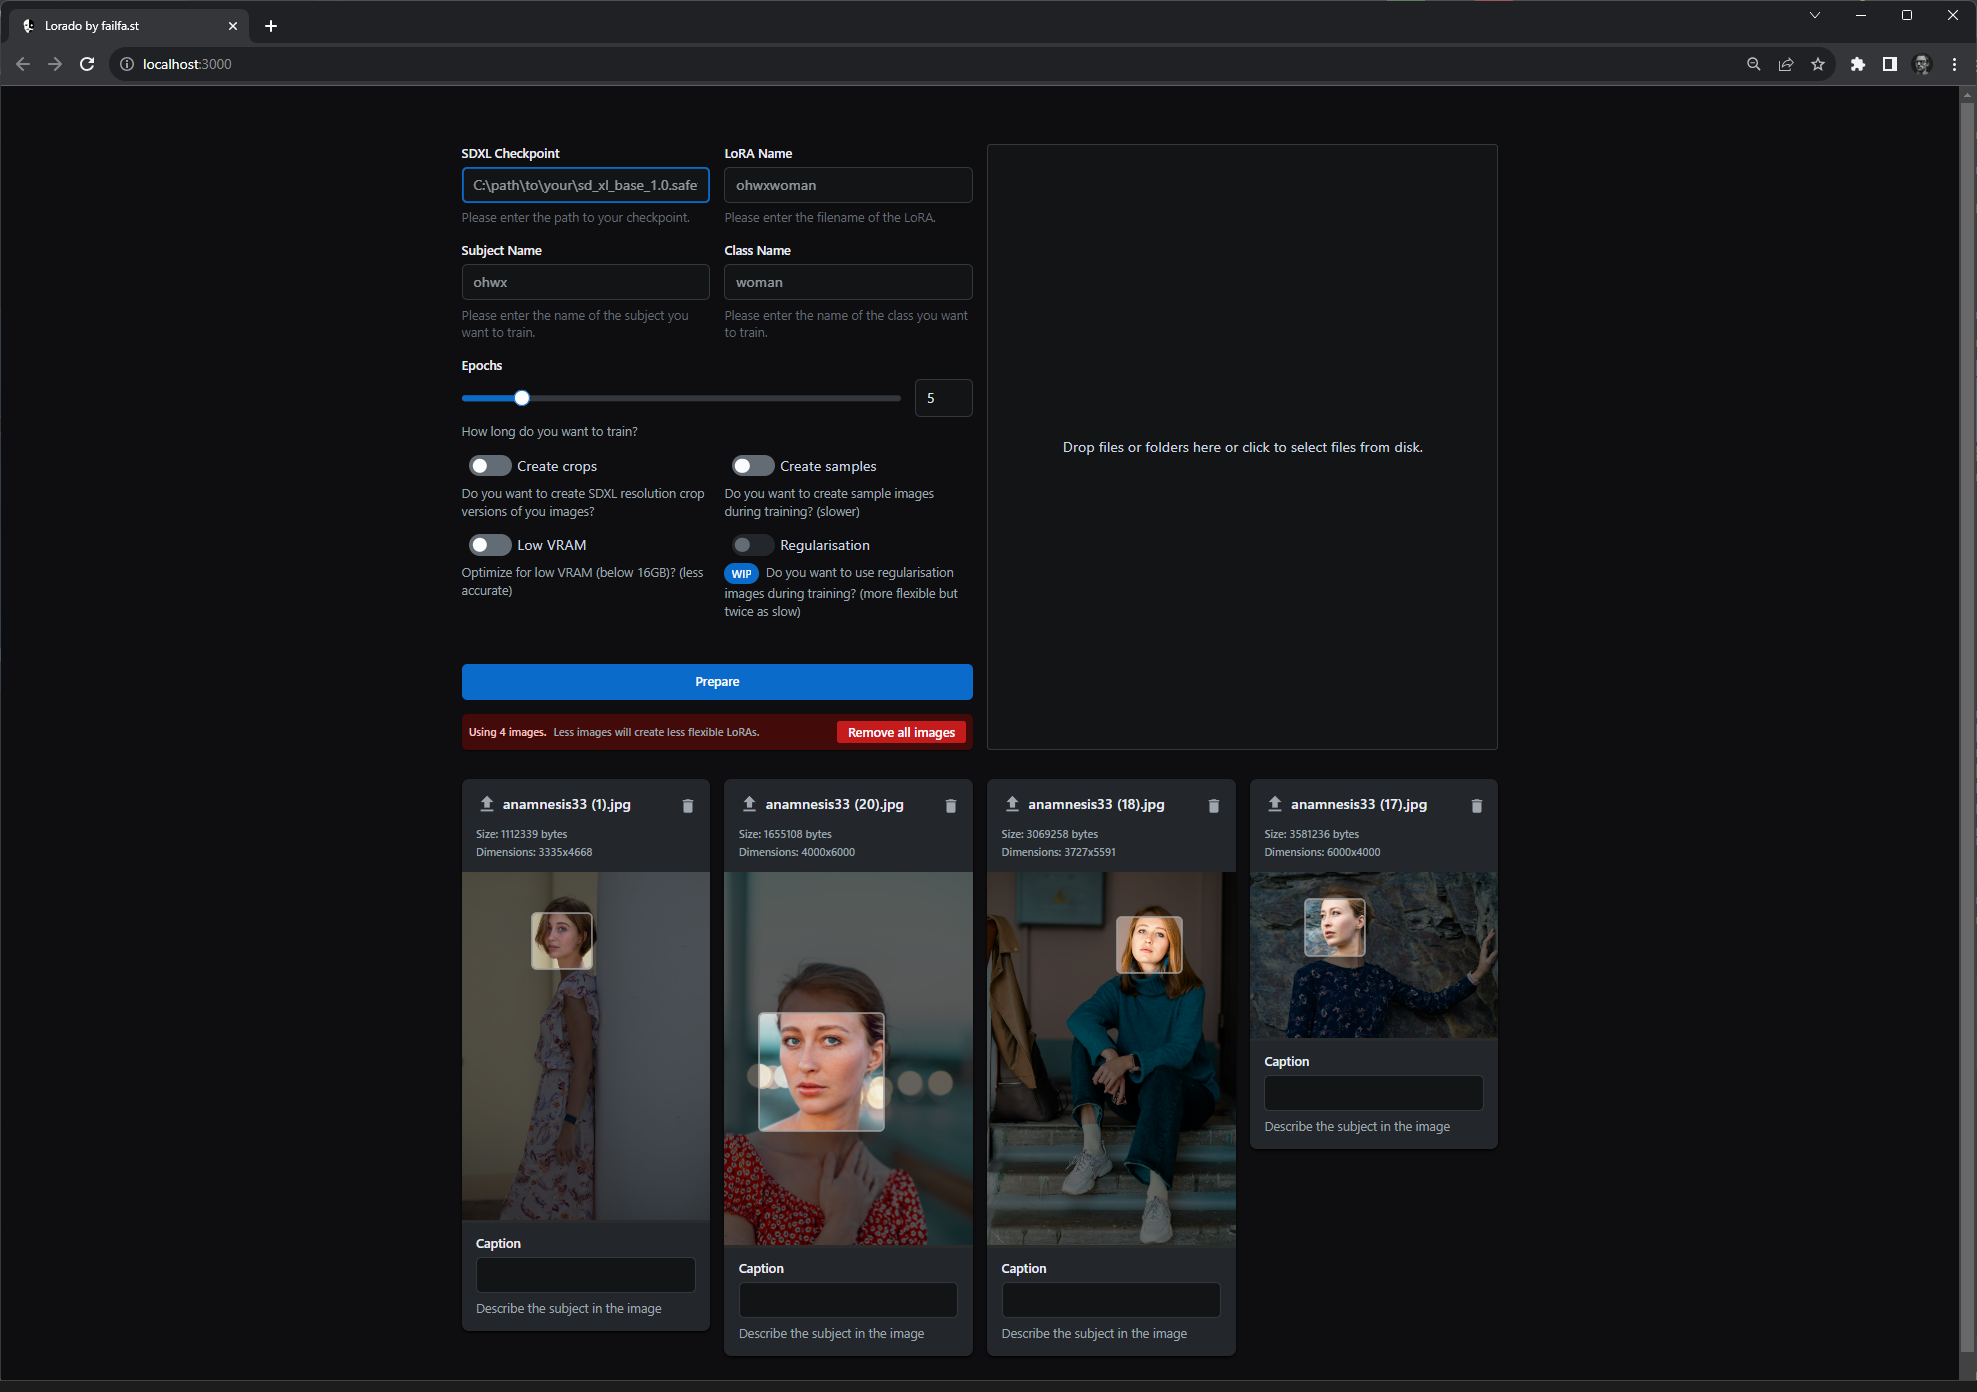
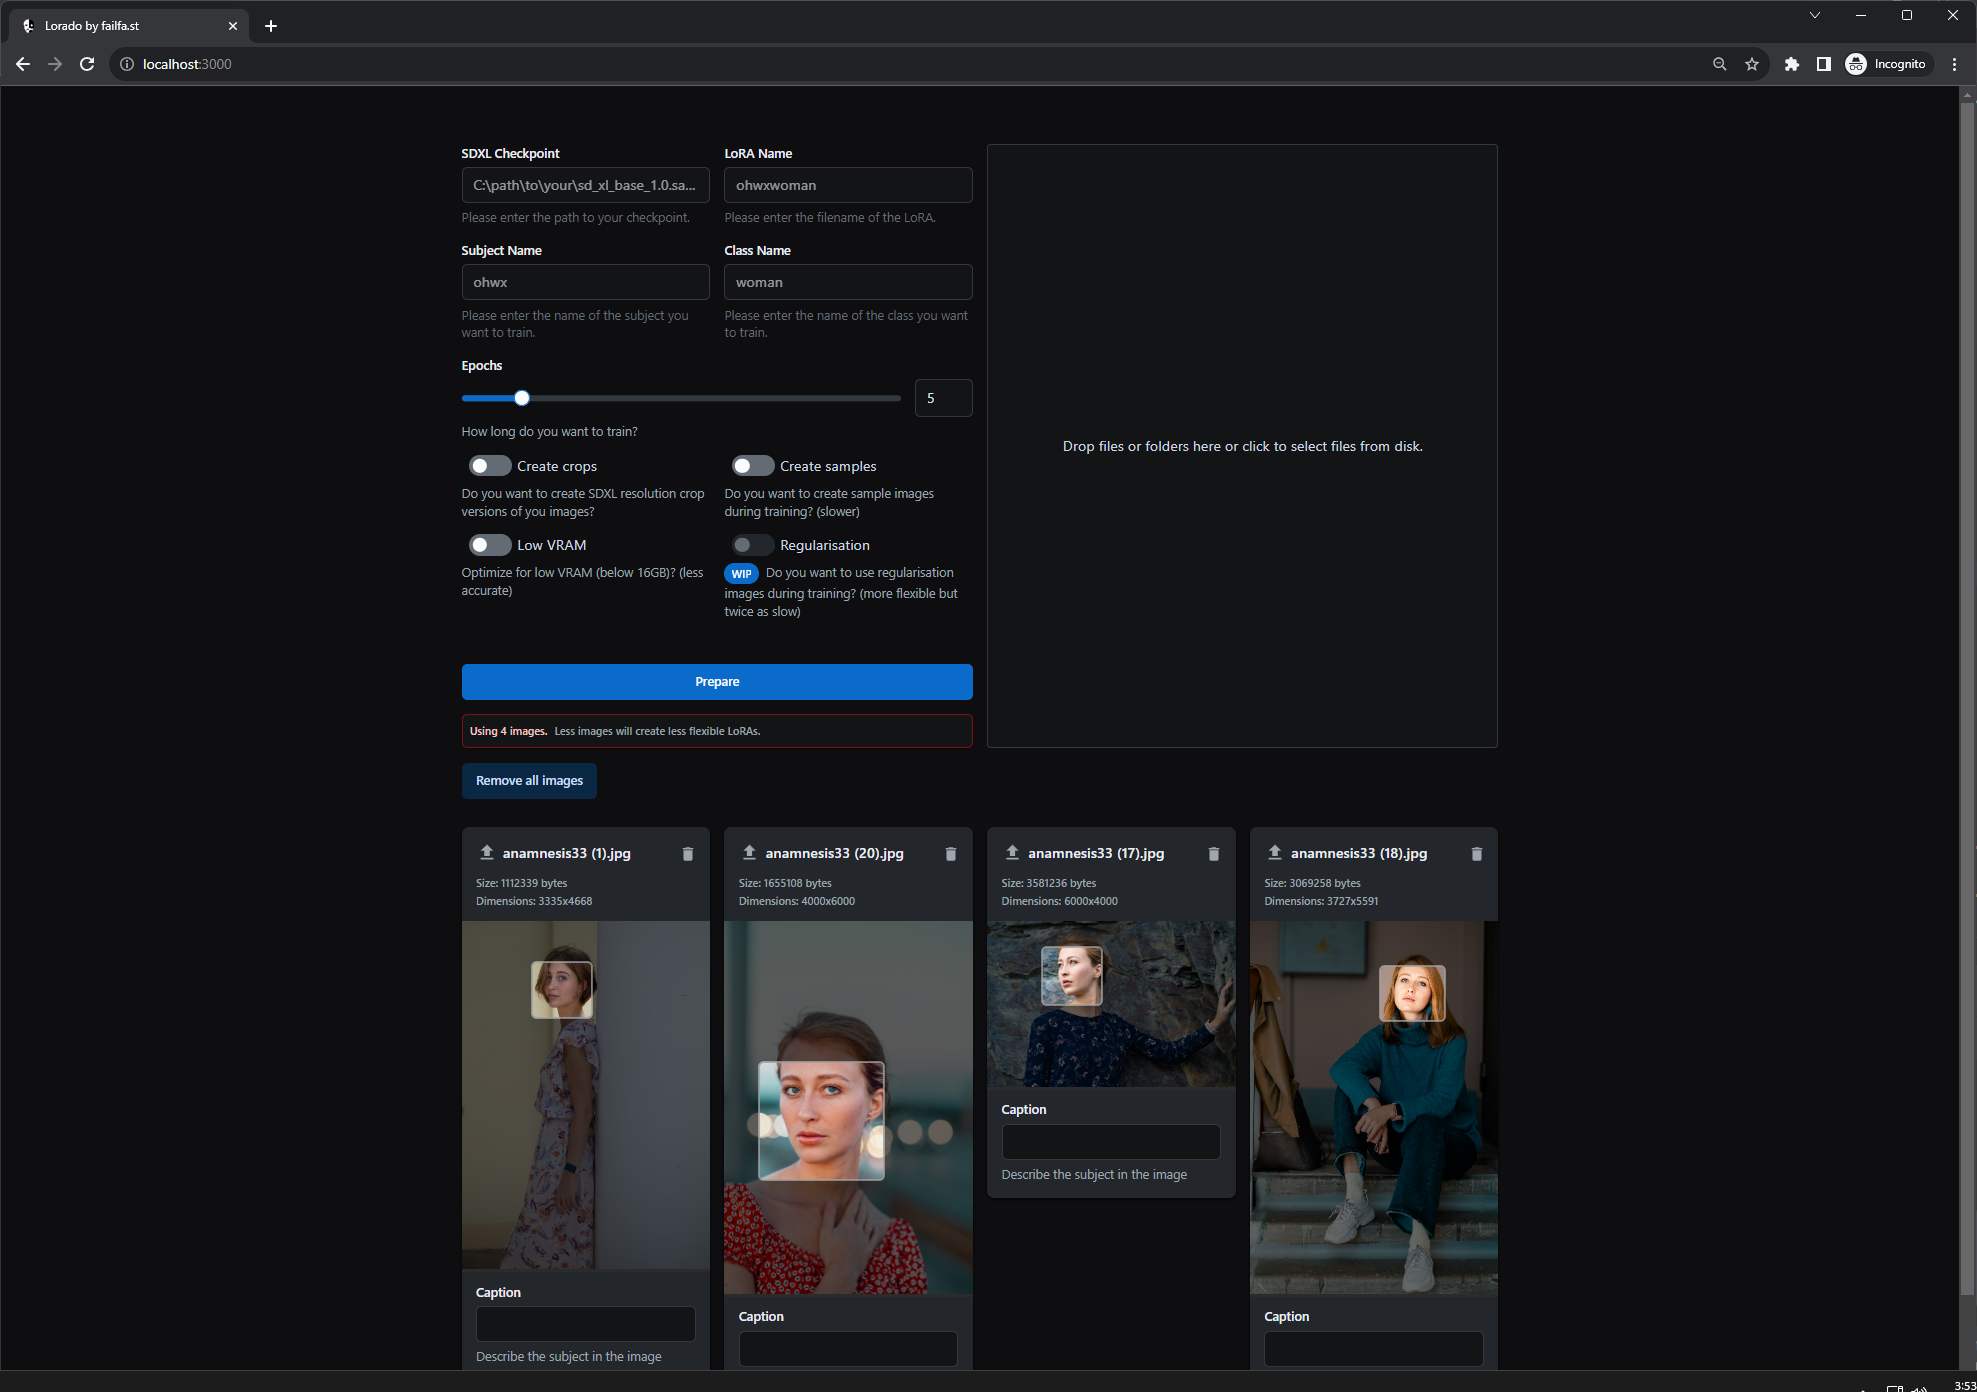
feat: calculate repeats

diff --git a/src/pages/index.tsx b/src/pages/index.tsx
@@ -142,6 +142,11 @@ export default function Home() {
         formData,
       );
 
+      const repeats = Math.min(
+        Math.max(Math.ceil(150 / (images.length * (data.crop ? 9 : 1))), 5),
+        50,
+      );
+
       const imagePromises = images.map(async (image, index) => {
         const counter = index + 1;
         const imageData = new FormData();
@@ -172,6 +177,7 @@ export default function Home() {
         imageData.append("className", data.className);
         imageData.append("crop", data.crop.toString());
         imageData.append("counter", counter.toString());
+        imageData.append("repeats", repeats.toString());
 
         // Now sending each image separately to a different endpoint
         const imageResponse = await axios.post("/api/upload-image", imageData);
@@ -402,8 +408,13 @@ export default function Home() {
                   </div>
                 </Alert>
               )}
+              {error && (
+                <Alert variant="soft" color="danger">
+                  {error.message}
+                </Alert>
+              )}
               <Alert
-                variant="soft"
+                variant="outlined"
                 color={
                   images.length >= preferredLength
                     ? "success"
@@ -412,25 +423,6 @@ export default function Home() {
                     : "danger"
                 }
                 size="sm"
-                endDecorator={
-                  <Button
-                    size="sm"
-                    variant="solid"
-                    disabled={images.length === 0}
-                    color={
-                      images.length >= preferredLength
-                        ? "success"
-                        : images.length >= secondaryLength
-                        ? "warning"
-                        : "danger"
-                    }
-                    onClick={() => {
-                      setImages([]);
-                    }}
-                  >
-                    Remove all images
-                  </Button>
-                }
               >
                 Using {images.length} image{images.length === 1 ? "" : "s"}.
                 {images.length < secondaryLength && images.length > 0 && (
@@ -462,6 +454,17 @@ export default function Home() {
           </Grid>
         </Grid>
       </Box>
+      <Box>
+        <Button
+          variant="soft"
+          disabled={images.length === 0}
+          onClick={() => {
+            setImages([]);
+          }}
+        >
+          Remove all images
+        </Button>
+      </Box>
       <Masonry columns={4}>
         {images.map((image, index) => (
           <ImageItem
@@ -482,7 +485,7 @@ export default function Home() {
           />
         ))}
         {images.length === 0 &&
-          exampleImages.map((image, index) => (
+          exampleImages.map((image) => (
             <ImageItem
               key={image.id}
               demo

diff --git a/src/pages/api/upload-image.ts b/src/pages/api/upload-image.ts
@@ -33,8 +33,8 @@ export default async function uploadImageHandler(
         const [caption] = fields.caption;
         const crop = fields.crop[0] === "true";
         const counter = Number.parseInt(fields.counter[0], 10);
+        const repeats = Number.parseInt(fields.repeats[0], 10);
         const datasetDir = path.join(baseDir, "dataset");
-        console.log({ crop }, crop === true);
         // Ensure directories exist
         await ensureDirExists(datasetDir);
 
@@ -56,7 +56,7 @@ export default async function uploadImageHandler(
                     sizes,
                     crop,
                     zoomLevels: [0],
-                    repeats: 10,
+                    repeats,
                     className,
                     subject,
                     outDir: baseDir,

diff --git a/README.md b/README.md
@@ -11,7 +11,6 @@ Welcome to LoRAdo. This toolkit is designed to streamline the process of LoRAs i
 With LoRAdo, creating datasets for image training is straightforward and efficient.
 
 **Screenshots**
-
 <p align="center">
 <img src="assets/ui.png" width="600" alt="user interface">
 <br/>
